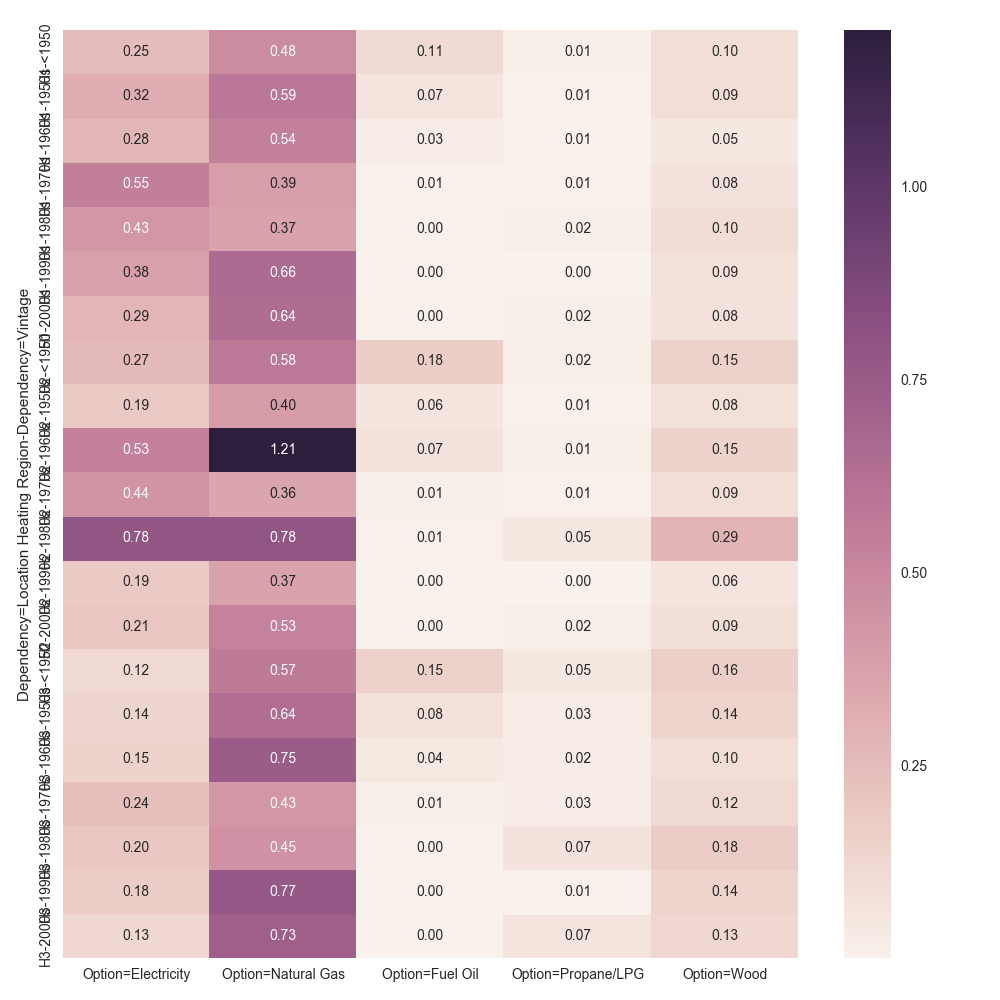
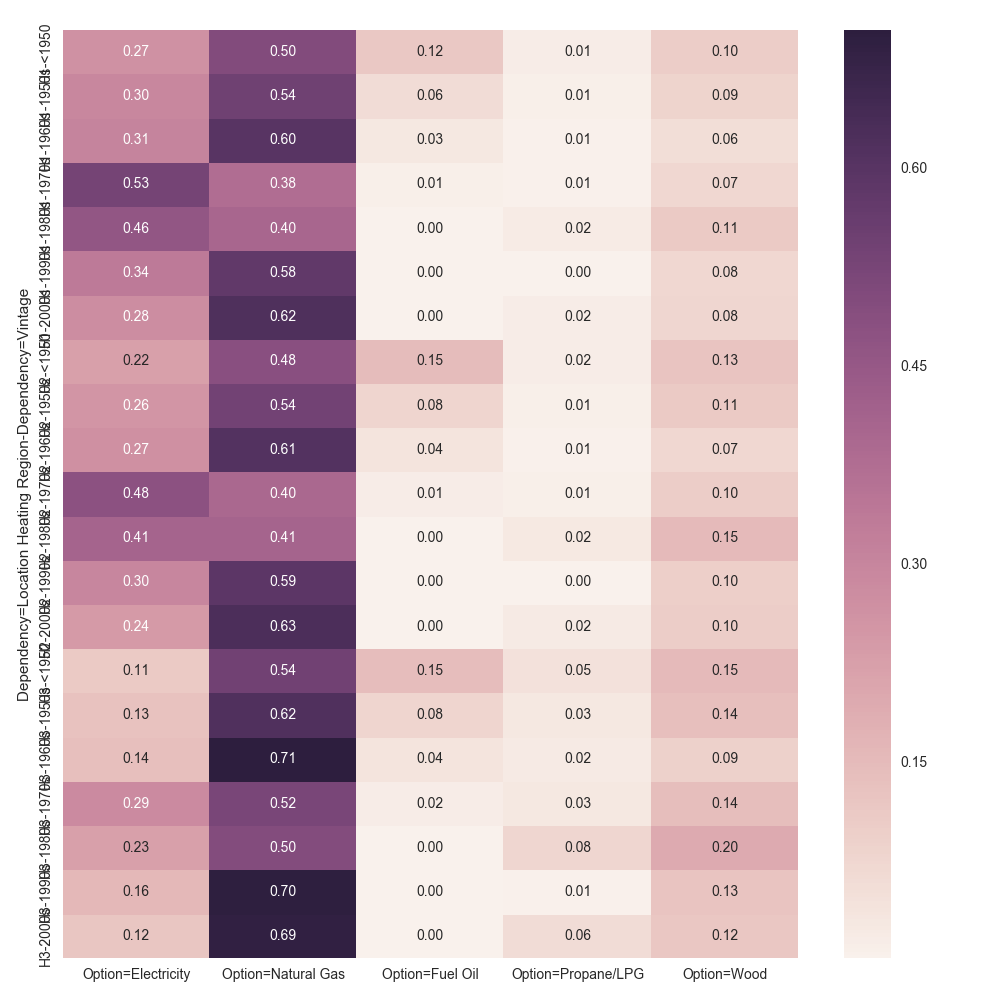
Removing foundation type dependency from Geometry Stories. Dividing by the correct weights for the smoothing algorithm.

diff --git a/data/rbsa/input.py b/data/rbsa/input.py
@@ -116,6 +116,12 @@ class Create_DFs():
                 p2 = df[[w2, col]].groupby([w2]).sum()
                 df[col] = df.apply(lambda row: smoothing_calculation(row, col, p1, p2), axis=1)
             df = df.set_index(['Dependency=Location Heating Region', 'Dependency=Vintage'])
+            del df['Weight']
+            df['Weight'] = df.sum(axis=1)
+            for col in df.columns:
+                if not 'Option' in col:
+                  continue
+                df[col] = df[col] / df['Weight']
         return df
         
     def insulation_unfinished_attic(self):
@@ -449,21 +455,21 @@ class Create_DFs():
         df = df.sort_values(by=['Dependency=Location Heating Region', 'Dependency=Vintage']).set_index(['Dependency=Location Heating Region', 'Dependency=Vintage'])
         return df
     
-    def geometry_stories(self):       
+    def geometry_stories(self, smooth=False):
         df = util.create_dataframe(self.session, rdb)
         df = util.assign_climate_zones(df)
         df = util.assign_state(df)
         df = util.assign_heating_location(df)
         df = util.assign_vintage(df) 
-        df = util.assign_foundation_type(df)
+        # df = util.assign_foundation_type(df)
         df = util.assign_size(df)
         df = util.assign_stories(df)
         df, cols = util.categories_to_columns(df, 'Dependency=Stories')
-        df = df.groupby(['Dependency=Vintage', 'Dependency=Geometry House Size', 'Dependency=Geometry Foundation Type'])
+        df = df.groupby(['Dependency=Vintage', 'Dependency=Geometry House Size'])
         missing_groups = []
-        for group in itertools.product(*[['<1950', '1950s', '1960s', '1970s', '1980s', '1990s', '2000s'], ['0-1499', '1500-2499', '2500-3499', '3500+'], ['Crawl', 'Heated Basement', 'Slab', 'Unheated Basement']]):
+        for group in itertools.product(*[['<1950', '1950s', '1960s', '1970s', '1980s', '1990s', '2000s'], ['0-1499', '1500-2499', '2500-3499', '3500+']]):
             if not group in list(df.groups):
-                missing_groups.append(dict(zip(['Dependency=Vintage', 'Dependency=Geometry House Size', 'Dependency=Geometry Foundation Type'], group)))          
+                missing_groups.append(dict(zip(['Dependency=Vintage', 'Dependency=Geometry House Size'], group)))
         count = df.agg(['count']).ix[:, 0]
         weight = df.agg(['sum'])['Weight']
         df = util.sum_cols(df, cols)        
@@ -473,14 +479,32 @@ class Create_DFs():
         columns.remove('Count')
         columns.remove('Weight')        
         for group in missing_groups:
-            df_new = pd.DataFrame(data=dict(group.items() + dict(zip(columns, [1.0/len(columns)] * len(columns))).items()), index=[0]).set_index(['Dependency=Vintage', 'Dependency=Geometry House Size', 'Dependency=Geometry Foundation Type'])
+            df_new = pd.DataFrame(data=dict(group.items() + dict(zip(columns, [1.0/len(columns)] * len(columns))).items()), index=[0]).set_index(['Dependency=Vintage', 'Dependency=Geometry House Size'])
             df_new['Count'] = 0
             df_new['Weight'] = 0
             df = df.append(df_new)
         df = add_option_prefix(df)
         df = df.reset_index()
         df['Dependency=Vintage'] = pd.Categorical(df['Dependency=Vintage'], ['<1950', '1950s', '1960s', '1970s', '1980s', '1990s', '2000s'])
-        df = df.sort_values(by=['Dependency=Geometry Foundation Type', 'Dependency=Geometry House Size', 'Dependency=Vintage']).set_index(['Dependency=Geometry Foundation Type', 'Dependency=Geometry House Size', 'Dependency=Vintage'])
+        df = df.sort_values(by=['Dependency=Geometry House Size', 'Dependency=Vintage']).set_index(['Dependency=Geometry House Size', 'Dependency=Vintage'])
+        if smooth:
+            w1 = 'Dependency=Geometry House Size'
+            w2 = 'Dependency=Vintage'
+            df = df.reset_index()
+            for col in df.columns:
+                if not 'Option' in col:
+                    continue
+                df[col] = df[col] * df['Weight']
+                p1 = df[[w1, col]].groupby([w1]).sum()
+                p2 = df[[w2, col]].groupby([w2]).sum()
+                df[col] = df.apply(lambda row: smoothing_calculation(row, col, p1, p2), axis=1)
+            df = df.set_index(['Dependency=Geometry House Size', 'Dependency=Vintage'])
+            del df['Weight']
+            df['Weight'] = df.sum(axis=1)
+            for col in df.columns:
+                if not 'Option' in col:
+                  continue
+                df[col] = df[col] / df['Weight']
         return df
     
     def heating_setpoint(self):
@@ -1327,7 +1351,7 @@ def add_option_prefix(df):
     return df
 
 def smoothing_calculation(row, col, p1, p2):
-    return ( p1.loc[row[p1.index.name], col] / p1[col].sum() ) * p2.loc[row[p2.index.name], col] / row['Weight']
+    return ( p1.loc[row[p1.index.name], col] / p1[col].sum() ) * p2.loc[row[p2.index.name], col]
     
 if __name__ == '__main__':
     
